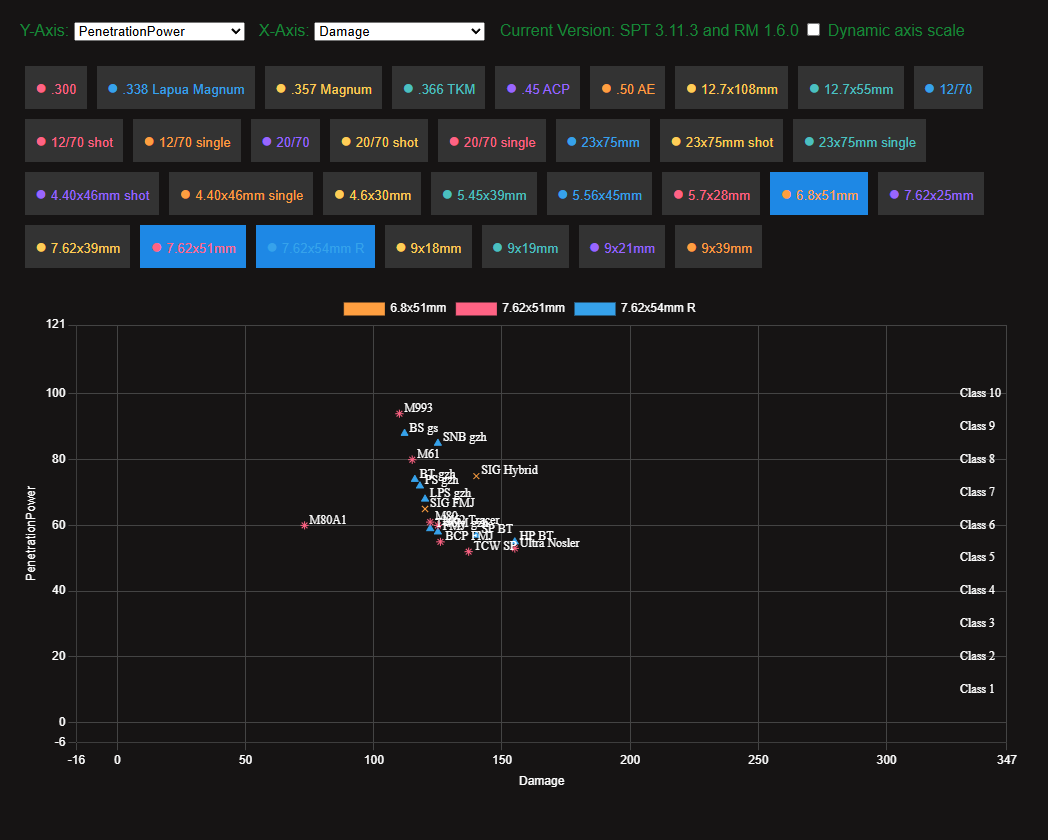
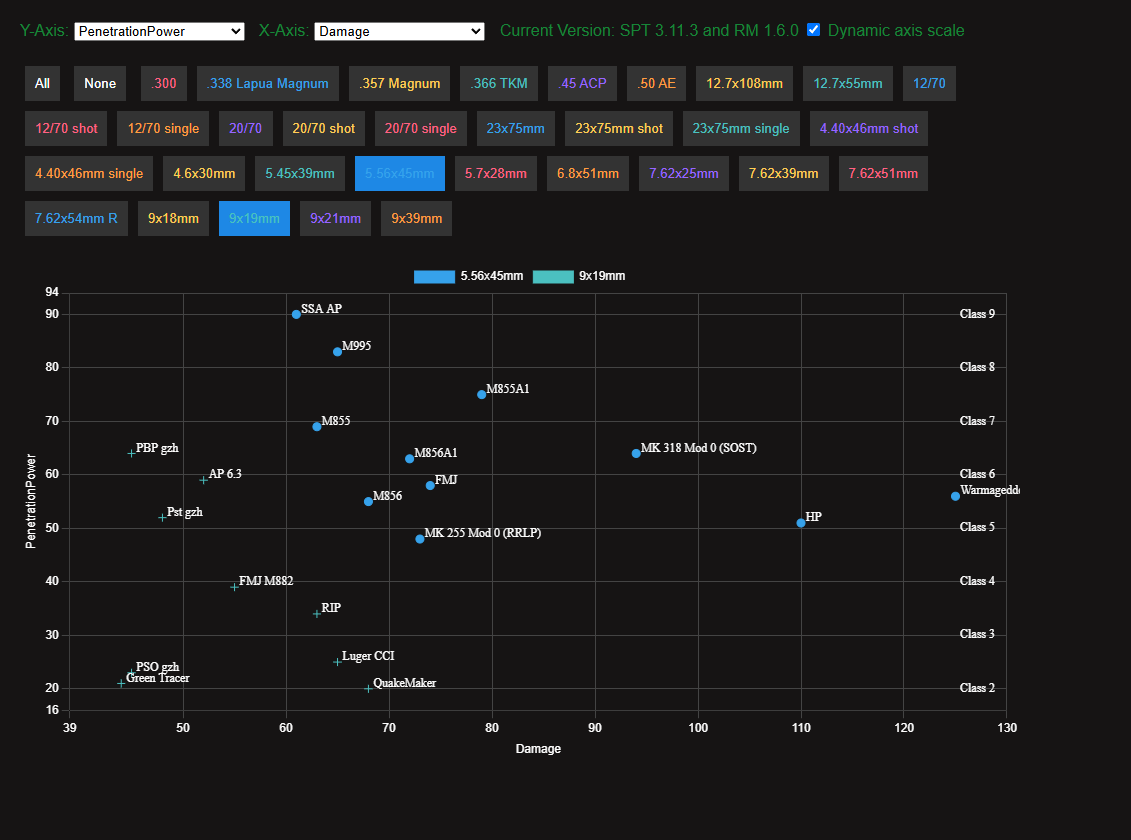
feat: select all and none button

diff --git a/script.js b/script.js
@@ -127,7 +127,6 @@ function initializeChart() {
               label += `Malf Misfire Chance: ${type.MalfMisfireChance}\n`;
               label += `Heat Factor: ${type.HeatFactor}\n`;
               label += `Durability Burn Modifier: ${type.DurabilityBurnModificator}\n`;
-              label += `Weight: ${type.Weight}\n`;
               return label.split("\n");
             },
           },
@@ -293,7 +292,7 @@ function createCaliberButtons() {
     const symbolIndex = getIndex(caliber, symbolMap);
 
     const button = document.createElement("button");
-    button.innerHTML = `<span style="color:${colorMap[colorIndex]}; font-size: 20px;">&#9679;</span> ${caliber}`;
+    button.innerHTML = caliber;
     button.style.color = colorMap[colorIndex];
     if (selectedCalibers.has(caliber)) {
       button.classList.add("active");
@@ -310,6 +309,18 @@ function createCaliberButtons() {
       updateChart();
     });
     caliberButtonsDiv.appendChild(button);
+  });
+}
+
+function updateCaliberButtonStates() {
+  const buttons = document.querySelectorAll("#caliberButtons button");
+  buttons.forEach((button) => {
+    const caliber = button.textContent.trim();
+    if (selectedCalibers.has(caliber)) {
+      button.classList.add("active");
+    } else {
+      button.classList.remove("active");
+    }
   });
 }
 
@@ -342,6 +353,19 @@ document.addEventListener("DOMContentLoaded", () => {
       useDynamicScaling = this.checked;
       updateChart();
     });
+  document.getElementById("selectAllBtn").addEventListener("click", () => {
+    selectedCalibers = new Set(Object.keys(data.item));
+    saveSelectedCalibers();
+    updateCaliberButtonStates();
+    updateChart();
+  });
+
+  document.getElementById("deselectAllBtn").addEventListener("click", () => {
+    selectedCalibers.clear();
+    saveSelectedCalibers();
+    updateCaliberButtonStates();
+    updateChart();
+  });
 
   document.getElementById("x-axis-select").value = xAxis;
   document.getElementById("y-axis-select").value = yAxis;

diff --git a/index.html b/index.html
@@ -103,7 +103,10 @@
           Dynamic axis scale
         </label>
       </div>
-      <div class="caliber-buttons" id="caliberButtons"></div>
+      <div class="caliber-buttons" id="caliberButtons">
+          <button id="selectAllBtn">All</button>
+          <button id="deselectAllBtn">None</button>
+      </div>
       <canvas id="ammoChart"></canvas>
     </div>
     <script src="https://cdn.jsdelivr.net/npm/chart.js"></script>
